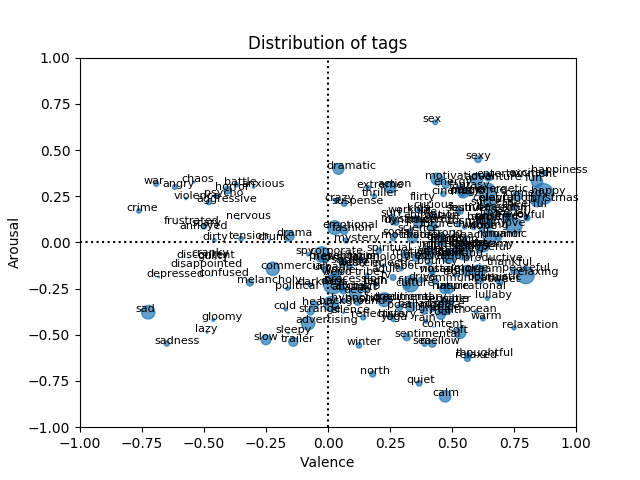
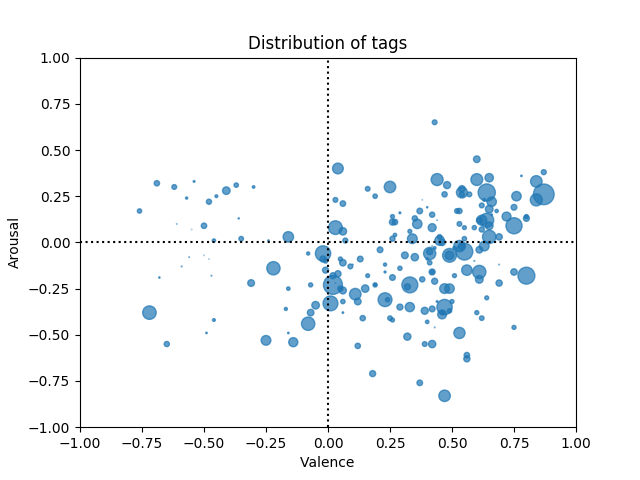
Updated intersect script, separated plot section

diff --git a/intersect.py b/intersect.py
@@ -1,29 +1,14 @@
+import argparse
 import pandas as pd
-import matplotlib.pyplot as plt
-
-dictionary_filename = 'data/BRM-emot-submit.csv'
-default_infile = 'results/stats.csv'
-default_outfile = 'results/stats_intersected.csv'
-
-
-def get_words(filename=dictionary_filename):
-    df = pd.read_csv(filename)
-    return set(df.Word)
-
-
-def get_intersection(words, filename=default_infile):
-    df = pd.read_csv(filename)
-    tags = set(df.Tags)
-    common_tags = tags.intersection(words)
-    print('{} > {}'.format(len(tags), len(common_tags)))
 
 
 def scale_convert(x):
-    """ Transforms from 1:9 scale to -1:1"""
+    """Transforms from 1:9 scale to -1:1"""
     return ((x - 1) / 8 - 0.5) * 2
 
 
 def get_quadrant(valence, arousal):
+    """Transforms (arousal, valence) pair to quadrant id"""
     if valence > 0 and arousal > 0:
         return 1
     if valence < 0 < arousal:
@@ -34,53 +19,45 @@ def get_quadrant(valence, arousal):
 
 
 def get_df_value(df, name):
+    """Read name.Mean.Sum from dataframe and convert to -1:1 scale"""
     return scale_convert(df.iloc[0][name + '.Mean.Sum'])
 
 
-def intersect(dict_filename=dictionary_filename, tags_filename=default_infile):
-    dict_df = pd.read_csv(dict_filename)
+def intersect(tags_filename, emotion_filename):
+    """Reads data from tags file, intersects and and augments it with emotion data"""
+    emotion_df = pd.read_csv(emotion_filename)
     tags_df = pd.read_csv(tags_filename)
-    out_df = pd.DataFrame(columns=['Tag', 'Count', 'Valence', 'Arousal', 'Quadrant'])
+    result_df = pd.DataFrame(columns=['tag', 'count', 'valence', 'arousal', 'quadrant'])
 
     print('Input tags: {}'.format(len(tags_df)))
     for row in tags_df.itertuples():
-        words_df = dict_df[dict_df.Word == row.Tag]
-
-        if len(words_df > 0):
+        words_df = emotion_df[emotion_df.Word == row.tag]
+        if len(words_df) > 0:
             valence = get_df_value(words_df, 'V')
             arousal = get_df_value(words_df, 'A')
-            out_df = out_df.append({
-                'Tag': row.Tag,
-                'Count': row.Count,
-                'Valence': valence,
-                'Arousal': arousal,
-                'Quadrant': get_quadrant(valence, arousal)
+            result_df = result_df.append({
+                'tag': row.tag,
+                'count': row.count,
+                'valence': valence,
+                'arousal': arousal,
+                'quadrant': get_quadrant(valence, arousal)
             }, ignore_index=True)
 
-    print('Output tags: {}'.format(len(out_df)))
-    return out_df
-
-
-def plot_quadrants(df, n=None, show=False):
-    plt.scatter(df.Valence, df.Arousal, df.Count / 15, alpha=0.7)
-    for i, tag in enumerate(df.Tag):
-        plt.text(df.Valence.iloc[i] - 0.05, df.Arousal.iloc[i], tag, fontsize=8)
-
-    plt.ylim([-1, 1])
-    plt.xlim([-1, 1])
-    plt.hlines(0, -1, 1, linestyles=':')
-    plt.vlines(0, -1, 1, linestyles=':')
-    plt.xlabel('Valence')
-    plt.ylabel('Arousal')
-    plt.title('Distribution of tags' + ('(top {})'.format(n) if n else ''))
-    plt.savefig('results/distribution.png')
-    if show:
-        plt.show()
+    print('Output tags: {}'.format(len(result_df)))
+    return result_df
 
 
 if __name__ == '__main__':
-    """This script is supposed to be executed after the extraction of tags"""
-    df = intersect()
-    df.to_csv(default_outfile, float_format='%.2f')
-    plot_quadrants(df)
+    parser = argparse.ArgumentParser(description='Intersects the top Jamendo tags with Warriner\'s list, adds '
+                                                 'arousal-valence values and quadrant',
+                                     formatter_class=argparse.ArgumentDefaultsHelpFormatter)
+    parser.add_argument('-i', '--input', default='results/stats.csv',
+                        help='Input CSV file with top Jamendo tags (rank, tag, count)')
+    parser.add_argument('-e', '--emotion', default='data/BRM-emot-submit.csv',
+                        help='Input CSV file with word emotion values (Word, V.Mean.Sum, A.Mean.Sum)')
+    parser.add_argument('-o', '--output', default='results/stats_intersected.csv',
+                        help='Output CSV file (rank, tag, count, valence, arousal, quadrant)')
+    args = parser.parse_args()
 
+    result = intersect(args.input, args.emotion)
+    result.to_csv(args.output, float_format='%.2f')

diff --git a/extract.py b/extract.py
@@ -36,7 +36,7 @@ def get_tags_dict(filename, types, sources):
 
 
 def get_top_tags(tags_dict):
-    """Takes dictionary, orders keys according to the length of values, and returns table: tag, len(value)"""
+    """Takes dictionary, orders keys according to the length of values, and returns dataframe: tag, len(value)"""
     df = pd.DataFrame()
     df['tag'] = list(tags_dict.keys())
     df['count'] = [len(vals) for vals in tags_dict.values()]
@@ -45,24 +45,20 @@ def get_top_tags(tags_dict):
     return df
 
 
-def print_tags(tags_map):
-    for tag_value, track_ids in tags_map.items():
-        print('{}: {}'.format(tag_value, len(track_ids)))
-
-
 if __name__ == '__main__':
-    parser = argparse.ArgumentParser(description='Computes the top tags from Jamendo metadata.')
+    parser = argparse.ArgumentParser(description='Computes the top tags from Jamendo metadata.',
+                                     formatter_class=argparse.ArgumentDefaultsHelpFormatter)
     parser.add_argument('-i', '--input', default='data/tracks_tags.csv',
                         help='Input CSV file that is formatted like this: trackId, type, value, source')
     parser.add_argument('-o', '--output', default='results/stats.csv',
-                        help='Input CSV file that is formatted like this: trackId, type, value, source')
+                        help='Output CSV file that is formatted like this: rank, tag, count')
     parser.add_argument('-t', '--types', nargs='+', choices=TYPES, default=['vartags'],
                         help='Types of metadata that are processed')
     parser.add_argument('-s', '--sources', nargs='+', choices=SOURCES, default=['team', 'artist'],
                         help='Types of metadata that are considered')
     args = parser.parse_args()
 
-    tags_dict, total = get_tags_dict(args.input, args.types, args.sources)
-    result = get_top_tags(tags_dict)
+    data, total = get_tags_dict(args.input, args.types, args.sources)
+    result = get_top_tags(data)
     result.to_csv(args.output)
     print("Extracted {} tags".format(len(result)))

diff --git a/plot.py b/plot.py
@@ -1,0 +1,45 @@
+import argparse
+import pandas as pd
+import matplotlib.pyplot as plt
+
+
+def plot_quadrants(input_filename, output_filename, n, labels, show):
+    """Plots tags on arousal-valence space"""
+    df = pd.read_csv(input_filename)
+
+    if n is not None:
+        df = df[:n]
+
+    plt.scatter(df.valence, df.arousal, df['count'].astype(float) / 15, alpha=0.7)
+
+    if labels:
+        for i, tag in enumerate(df.tag):
+            plt.text(df.valence.iloc[i] - 0.05, df.arousal.iloc[i], tag, fontsize=8)
+
+    plt.ylim([-1, 1])
+    plt.xlim([-1, 1])
+    plt.hlines(0, -1, 1, linestyles=':')
+    plt.vlines(0, -1, 1, linestyles=':')
+    plt.xlabel('Valence')
+    plt.ylabel('Arousal')
+    plt.title('Distribution of tags' + (' (top {})'.format(n) if n else ''))
+    plt.savefig(output_filename)
+
+    if show:
+        plt.show()
+
+
+if __name__ == '__main__':
+    parser = argparse.ArgumentParser(description='Plots tags on arousal-valence space',
+                                     formatter_class=argparse.ArgumentDefaultsHelpFormatter)
+
+    parser.add_argument('-i', '--input', default='results/stats_intersected.csv',
+                        help='Input CSV file (rank, tag, count, valence, arousal, quadrant)')
+    parser.add_argument('-o', '--output', default='results/distribution.png',
+                        help='Figure file with tags plotted on arousal-valence space')
+    parser.add_argument('-s', '--show', action='store_true', default=False, help='Show figure in the end')
+    parser.add_argument('-n', '--num', type=int, default=None, help='Number of tags to display')
+    parser.add_argument('-l', '--labels', action='store_false', default=True, help='Hide labels')
+    args = parser.parse_args()
+
+    plot_quadrants(args.input, args.output, args.num, args.labels, args.show)

diff --git a/README.md b/README.md
@@ -7,6 +7,10 @@
 
 ## Scripts
 
-1. `extract.py`
-2. `intersect.py`
-3. `analyse.py`
+```bash
+extract.py
+intersect.py
+plot.py -l  # all without labels
+plot.py -n 100 -o top100.png  # top100 labels
+analyse.py
+```
